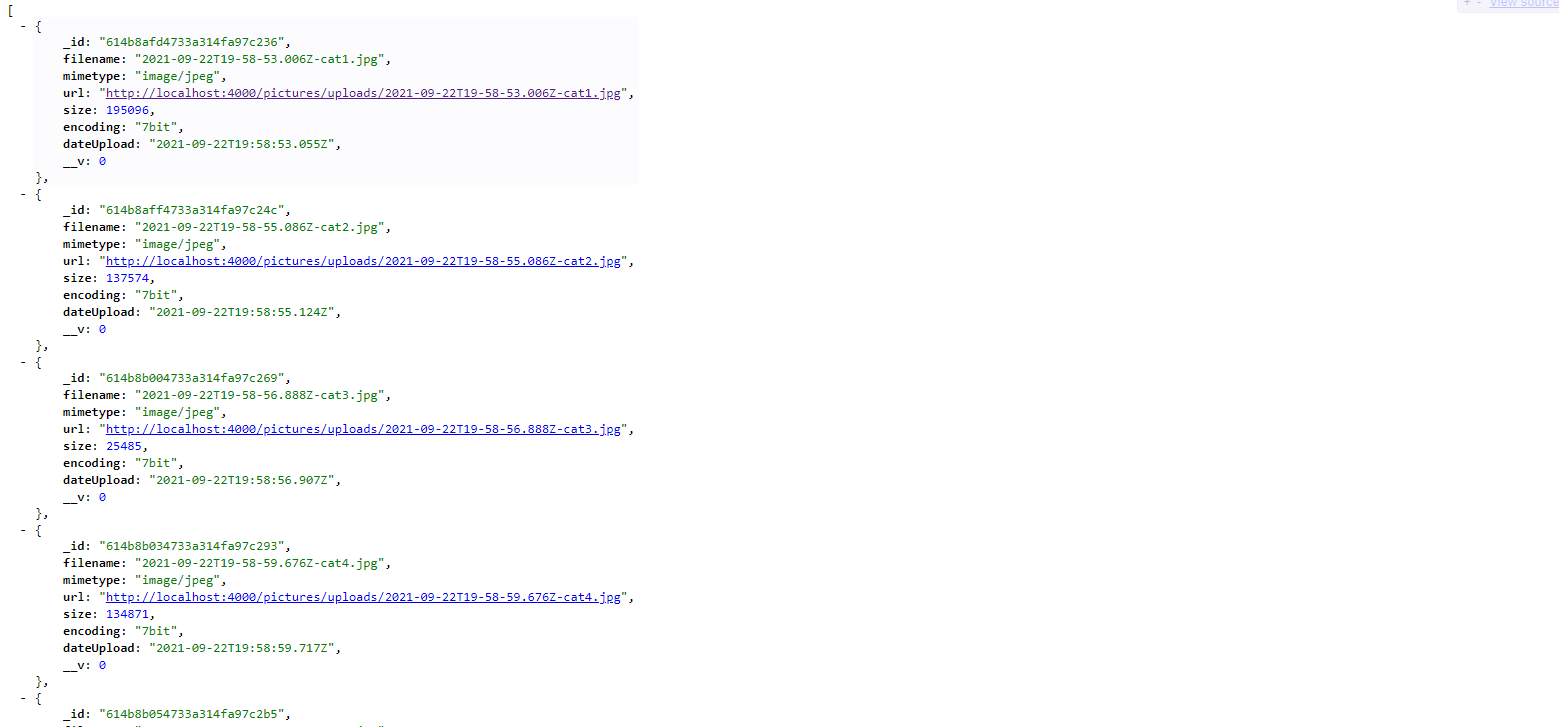
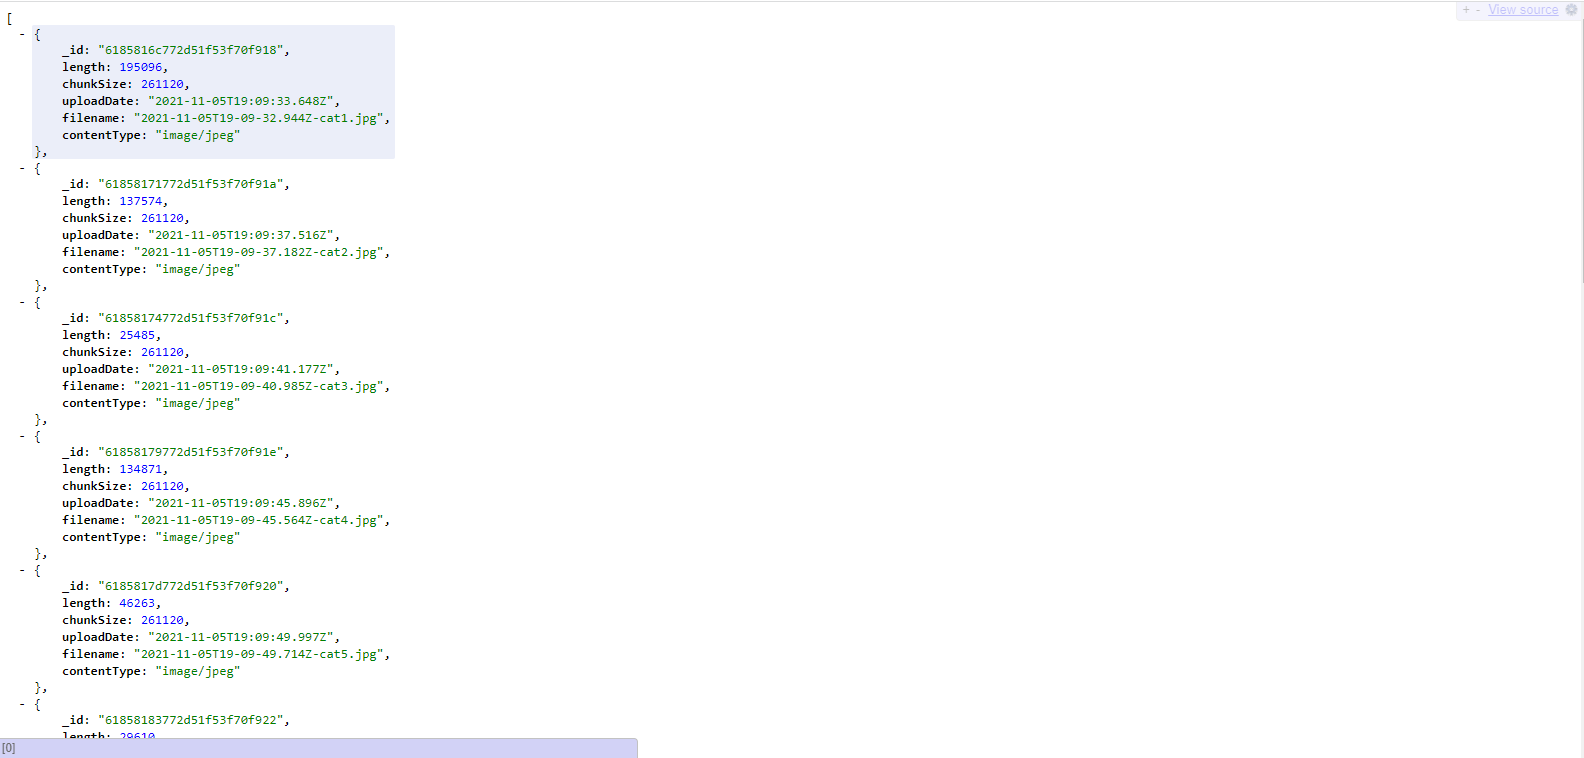
NEW STRUCTURES

diff --git a/rest-api-photos/controllers/photo.js b/rest-api-photos/controllers/photo.js
@@ -1,43 +1,80 @@
 const { Photos }=require("../models/photo");
 const mongoose=require("mongoose");
+const upload=require("../middleware/upload");
 const Grid=require("gridfs-stream");
 require("dotenv").config();
-
-//Create mongo Connection
-const connection=mongoose.createConnection(process.env.MONGO_URI);
 
 //Init GFS
 let gfs;
 
+//Create mongo Connection
+const connection=mongoose.createConnection(process.env.MONGO_URI);
 connection.once("open", ()=>{
     //Init Stream
     gfs=Grid(connection.db, mongoose.mongo);
     gfs.collection("photos");
 })
 
+
 const showPhotos=(req, res)=>{
     gfs.files.find().toArray((err, files)=>{
       if(!files || files.length === 0){
-          return res.status(404).json({message:"Pas de photos enregistrées dans la base de données"});  
+          return res.status(404).json({message:"No data currently in the database"});  
       } 
       return res.json(files);
-    })
+    });
 };
 
 const uploadPhoto=(req, res)=>{
-    if(req.file === undefined) return res.json({message:"Sélectionner une photo"});
+    if(req.file === undefined) return res.json({message:"Select a picture"});
     res.redirect("/photo");
 }
 
 const searchPhotoByName=(req, res)=>{
-    gfs.files.findOne({filename:req.params._id}, (err, file)=>{
+    gfs.files.findOne({filename:req.params.filename}, (err, file)=>{
         if(!file || file.length === 0){
-            return res.status(404).json({message:"Ce photo n'existe pas dans la base de données"});  
+            return res.status(404).json({message:"File not found"});  
         } 
         return res.json(file);
     })
 }
 
+const displayPhoto=(req, res)=>{
+    gfs.files.findOne({filename:req.params.filename}, (err, file)=>{
+        if(!file || file.length === 0){
+            return res.status(404).json({message:"File not found"});  
+        } 
+        if(file.contentType === 'image/jpeg' || file.contentType ==='image/png'){
+           let readStream=gfs.createReadStream(file.filename);
+           readStream.pipe(res);
+        }else{
+            res.status(404).json({message:"Not an image"});
+        }
+    });
+}
+
+const allPhotos=(req, res)=>{
+    gfs.files.find().toArray((err, files)=>{
+        if(!files || files.length === 0){
+            return res.status(404).json({message:"File not found"});  
+        }else{
+            files.map(file=>{
+                if(file.contentType === 'image/jpeg' || file.contentType ==='image/png'){
+                         file.isImage=true
+                         res
+                 }
+                 else{
+                         file.isImage=false;
+                 }
+            });
+            res.json(files);
+        }
+    })
+}
+
+
 module.exports.showPhotos=showPhotos;
 module.exports.uploadPhoto=uploadPhoto;
-module.exports.searchPhotoByName=searchPhotoByName
+module.exports.searchPhotoByName=searchPhotoByName;
+module.exports.displayPhoto=displayPhoto;
+module.exports.allPhotos=allPhotos;

diff --git a/rest-api-photos/routes/photo.js b/rest-api-photos/routes/photo.js
@@ -1,36 +1,14 @@
 const express=require("express");
 const router=express.Router();
-const {showPhotos, uploadPhoto, searchPhotoByName}=require("../controllers/photo");
+const {showPhotos, uploadPhoto, searchPhotoByName, displayPhoto, allPhotos}=require("../controllers/photo");
+const upload=require("../middleware/upload");
 
-const multer=require("multer");
-const {GridFsStorage} = require('multer-gridfs-storage');
-const mongoose=require("mongoose");
-const Grid=require("gridfs-stream");
-require("dotenv").config();
-
-//Create Storage Engine
-const storage=new GridFsStorage({
-    url:process.env.MONGO_URI,
-    options:{useNewUrlParser:true, useUnifiedTopology:true},
-    file:(req, file)=>{
-        const match=["image/png", "image/jpeg", "image/jpg"];
-        const dateStr = new Date().toISOString().replace(/:/g, '-');
-        if(match.indexOf(file.mimetype)=== -1){
-            const filename=`${dateStr}-${file.originalname}`;
-            return filename;
-        }
-        return {
-            bucketName:"photos",
-            filename:`${dateStr}-${file.originalname}`
-        }
-    }
-});
-
-const upload=multer({storage});   
 
 //Routes
 router.get("/", showPhotos);
 router.post("/", upload.single('photos'), uploadPhoto);
-router.post("/:filename", searchPhotoByName)
+router.get("/view/:filename", searchPhotoByName);
+router.get("/display/:filename", displayPhoto);
+router.get("/all", allPhotos);
 
 module.exports = router

diff --git a/rest-api-photos/app.js b/rest-api-photos/app.js
@@ -2,8 +2,10 @@ const express=require("express");
 const cors=require("cors");
 const pictureRoutes=require("./routes/photo");
 const morgan=require("morgan");
-require("./models/dbConfig");
+const dbConnection=require("./models/dbConfig");
+require("dotenv").config();
 
+dbConnection();
 const app=express();
 const PORT=process.env.PORT || 4000; 
 
@@ -14,7 +16,11 @@ app.use(morgan('dev'));
 app.use("/photo", pictureRoutes);
 
 app.get("/", (req, res)=>{
-    res.json({"message":"API pour obtenir toutes les images téléchargées. Ajoutez /photos à l'URL pour voir toutes les informations sur les images téléchargés."})
+    res.json({"Summary":"API to get all properties of uploaded images",
+              "Quick access to the properties of uploaded images":"http://localhost:4000/photo",
+              "Display property of a specific image":"http://localhost:4000/photo/view/[filename]",
+              "Display image on browser":"http://localhost:4000/photo/display/[filename]"
+            });
 });
 
 app.use((req, res, next)=>{

diff --git a/rest-api-photos/middleware/upload.js b/rest-api-photos/middleware/upload.js
@@ -1,0 +1,26 @@
+const multer=require("multer");
+const {GridFsStorage} = require('multer-gridfs-storage');
+require("dotenv").config();
+
+
+//Create Storage Engine
+const storage=new GridFsStorage({
+    url:process.env.MONGO_URI,
+    options:{useNewUrlParser:true, useUnifiedTopology:true},
+    file:(req, file)=>{
+        const match=["image/png", "image/jpeg", "image/jpg"];
+        const dateStr = new Date().toISOString().replace(/:/g, '-');
+        if(match.indexOf(file.mimetype)=== -1){
+            const filename=`${dateStr}-${file.originalname}`;
+            return filename;
+        }
+        return {
+            bucketName:"photos",
+            filename:`${dateStr}-${file.originalname}`
+        }
+    }
+});
+
+const upload=multer({storage});   
+
+module.exports=upload;

diff --git a/rest-api-photos/models/dbConfig.js b/rest-api-photos/models/dbConfig.js
@@ -1,12 +1,13 @@
 const mongoose=require("mongoose")
-require("dotenv").config()
 
-mongoose.connect(process.env.MONGO_URI, {useUnifiedTopology:true, useNewUrlParser:true}, err=>{
-    if(err){
+module.exports=async function dbConnection(){
+    try{
+       await mongoose.connect(process.env.MONGO_URI, {useNewUrlParser:true, useUnifiedTopology:true}, ()=>{
+         console.log("Database Connection Successfully!");
+       });
+    }
+    catch(err){
         console.log("Error Establishing a Database Connection");
         console.log(err);
-    }else{
-        console.log("Database Connection Successfully!");
     }
-    
-})
+}
